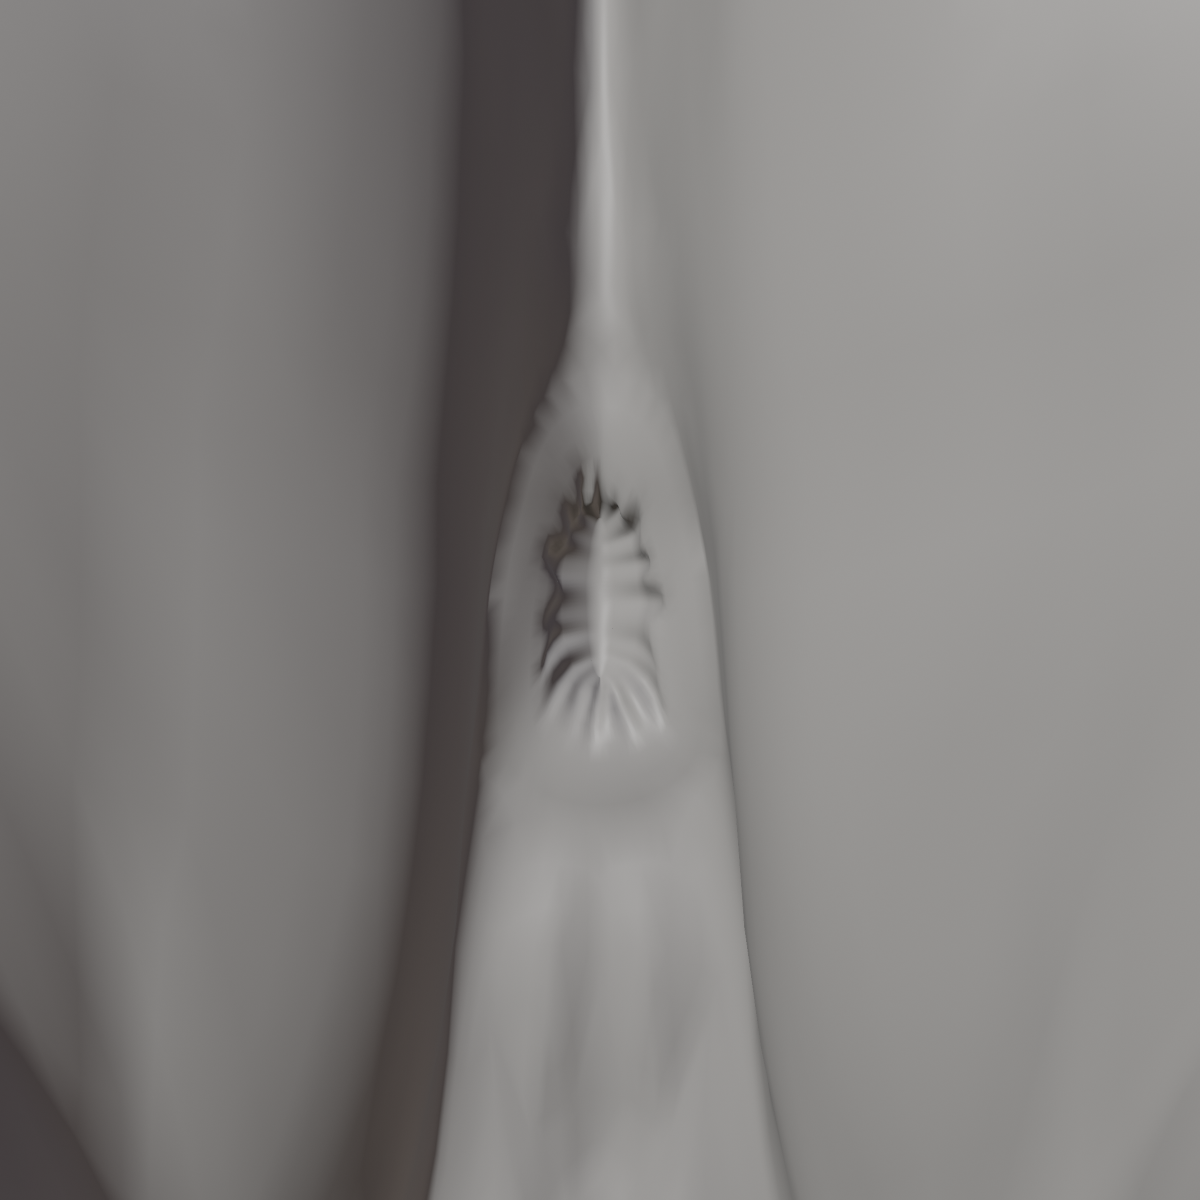
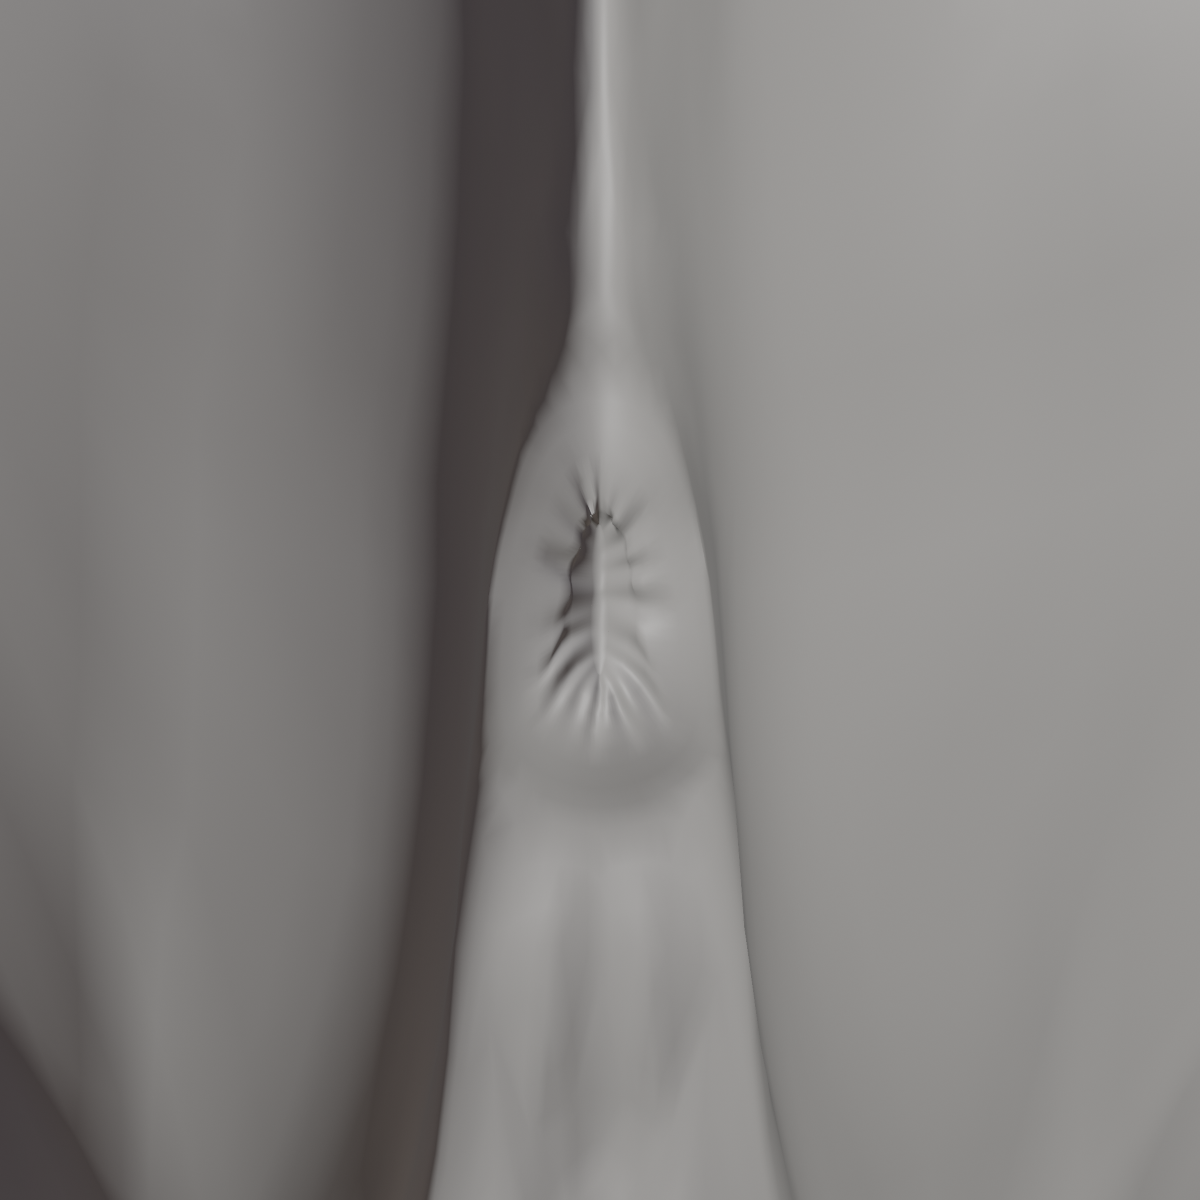
Lift the sagging pucker base; fix the raised variant's pinch
The filled base still sagged ~1.8 mm towards the original model's anus dimple,
so both versions sat in a pit. Lift it level with the skin at the pucker's
front/back ends (fading out at the rim); main funnel 0.9 -> 0.3 mm.
Raised variant: dome now rises along the cleft's outward direction instead of
the surface normal (which pinched the sides into a narrow cracked wedge on the
steep cheek walls); creases 0.6 -> 0.4 mm.

Claude-Session: https://claude.ai/code/session_01GkHsFACxGEb36mHX3TdUWk

Changed region(s): [[0.4008, 0.37, 0.555, 0.6167], [0.5242, 0.5242, 0.555, 0.555]]

diff --git a/scripts/build8_raised.py b/scripts/build8_raised.py
@@ -305,7 +305,7 @@ for lip in (0.0, math.pi):                                           # lip with 
         r0 = _rng.uniform(3.4, 4.6)
         FOLDS.append(_fold(lip + _rng.uniform(0.15, math.pi - 0.15), _rng.uniform(0.3, 0.5),
                            _rng.uniform(0.065, 0.085), r0, r0 + _rng.uniform(1.2, 2.2)))
-FUNNEL = 0.9; R_FOLD = 7.4; FOLD_DEPTH = 0.6; SLIT_DEPTH = 0.6; RIDGE = 0.45
+FUNNEL = 0.3; R_FOLD = 7.4; FOLD_DEPTH = 0.4; SLIT_DEPTH = 0.5; RIDGE = 0.35
 PUFF = 1.0                       # mm the pucker rises (dome) before the slit dips back in
 # pigment outline: a few low harmonics with random phases (+-~4 %) so it isn't a perfect, mirrored oval
 PIG_WOBBLE = [(k, _rng.uniform(0.008, 0.016), _rng.uniform(0, 2 * math.pi)) for k in (2, 3, 5)]
@@ -438,18 +438,31 @@ def base_normal(p):
 
 
 bnorm = {v: base_normal(base_pos[v]) for v in info}
+# The filled base still sags towards the original model's deep anus dimple (~1.3 mm low in the middle). Lift it so
+# the centre sits level with the skin at the front / back ends of the pucker; fades to nothing at the outer ring.
+_ends = [v for r_, ring in zip(RINGS, rings) if r_ == RINGS[-1] for v in ring
+         if abs(math.sin(info[v][1])) < 0.2]
+_end_h = sum(to_local(base_pos[v])[2] for v in _ends) / len(_ends)
+_ctr_h = to_local(base_pos[M[H // 2]])[2]
+LIFT = max(0.0, _end_h - _ctr_h)
+report["base_lift_mm"] = round(LIFT * 1000, 2)
+for v, (r, th) in info.items():
+    base_pos[v] = base_pos[v] + bnorm[v] * (LIFT * (1 - ss(RINGS[0], RINGS[-1] - 0.4, max(r, RINGS[0]))))
 # relief along the (smooth) base normal: shallow funnel, creases fanning from the slit, closed slit groove
 for v, (r, th) in info.items():
     if v in slit_verts:
         sw = math.sin(th)
+        puff_v = Vector()
         relief = -FUNNEL - SLIT_DEPTH * sw ** 1.5
         v[pig_layer] = 1.0; v[cre_layer] = 0.9 * sw ** 0.5
     else:
-        relief = (PUFF * math.sin(math.pi * min(max((r - RINGS[0]) / (8.6 - RINGS[0]), 0), 1)) ** 0.7
-                  - FUNNEL * (1 - ss(RINGS[0], RINGS[0] + 1.2, r)) + fold_amp(r) * (RIDGE - crease(th, r)))
+        relief = -FUNNEL * (1 - ss(RINGS[0], RINGS[0] + 1.2, r)) + fold_amp(r) * (RIDGE - crease(th, r))
+        # the dome rises straight out of the cleft (along n), not along the surface normal - on the steep cheek
+        # walls that normal points sideways and would pinch the pucker into a narrow, cracked wedge
+        puff_v = n * (PUFF / 1000 * math.sin(math.pi * min(max((r - RINGS[0]) / (8.6 - RINGS[0]), 0), 1)) ** 0.7)
         v[pig_layer] = 1 - ss(5.6, 7.8, pig_r(r, th))
         v[cre_layer] = min(1.0, crease(th, r)) * paint_amp(r)
-    v.co = base_pos[v] + bnorm[v] * (relief / 1000)
+    v.co = base_pos[v] + bnorm[v] * (relief / 1000) + (puff_v if v not in slit_verts else Vector())
     v[fs_layer] = 1 - ss(6.5, 8.6, r)              # where the fold shading acts (0 at the outer ring)
 bm.normal_update()
 for v in bm.verts:                                 # smooth (un-creased) normal, for the fold shading's reference light

diff --git a/scripts/build8.py b/scripts/build8.py
@@ -305,7 +305,7 @@ for lip in (0.0, math.pi):                                           # lip with 
         r0 = _rng.uniform(3.4, 4.6)
         FOLDS.append(_fold(lip + _rng.uniform(0.15, math.pi - 0.15), _rng.uniform(0.3, 0.5),
                            _rng.uniform(0.065, 0.085), r0, r0 + _rng.uniform(1.2, 2.2)))
-FUNNEL = 0.9; R_FOLD = 7.4; FOLD_DEPTH = 0.35; SLIT_DEPTH = 0.5; RIDGE = 0.3
+FUNNEL = 0.3; R_FOLD = 7.4; FOLD_DEPTH = 0.35; SLIT_DEPTH = 0.5; RIDGE = 0.3
 # pigment outline: a few low harmonics with random phases (+-~4 %) so it isn't a perfect, mirrored oval
 PIG_WOBBLE = [(k, _rng.uniform(0.008, 0.016), _rng.uniform(0, 2 * math.pi)) for k in (2, 3, 5)]
 
@@ -437,6 +437,16 @@ def base_normal(p):
 
 
 bnorm = {v: base_normal(base_pos[v]) for v in info}
+# The filled base still sags towards the original model's deep anus dimple (~1.3 mm low in the middle). Lift it so
+# the centre sits level with the skin at the front / back ends of the pucker; fades to nothing at the outer ring.
+_ends = [v for r_, ring in zip(RINGS, rings) if r_ == RINGS[-1] for v in ring
+         if abs(math.sin(info[v][1])) < 0.2]
+_end_h = sum(to_local(base_pos[v])[2] for v in _ends) / len(_ends)
+_ctr_h = to_local(base_pos[M[H // 2]])[2]
+LIFT = max(0.0, _end_h - _ctr_h)
+report["base_lift_mm"] = round(LIFT * 1000, 2)
+for v, (r, th) in info.items():
+    base_pos[v] = base_pos[v] + bnorm[v] * (LIFT * (1 - ss(RINGS[0], RINGS[-1] - 0.4, max(r, RINGS[0]))))
 # relief along the (smooth) base normal: shallow funnel, creases fanning from the slit, closed slit groove
 for v, (r, th) in info.items():
     if v in slit_verts:
